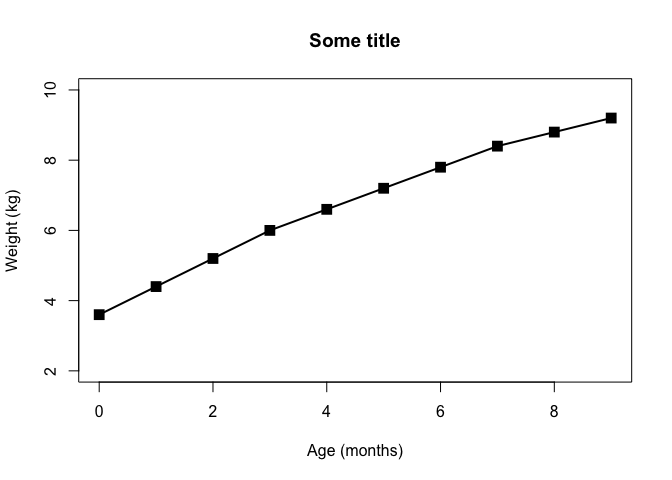
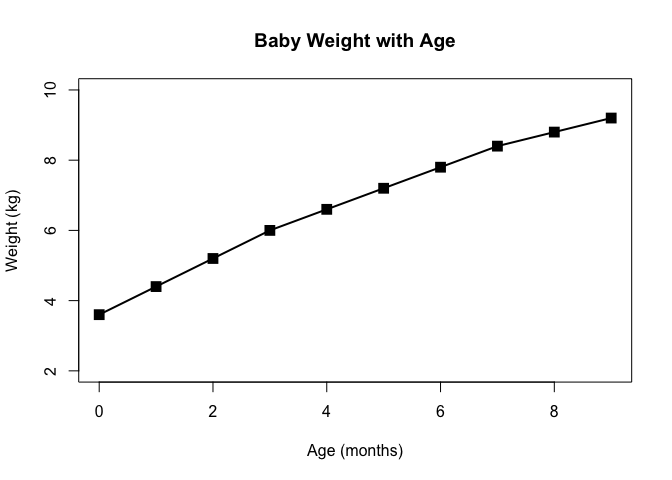
updated class5 R code

Changed region(s): [[0.375, 0.0625, 0.6875, 0.125]]

diff --git a/class05/class05.md b/class05/class05.md
@@ -6,22 +6,22 @@ April 17, 2019
 ``` r
 # Class05 R graphics and plots
 
-# get the data in
+# Get the data in
 weight <- read.table("bimm143_05_rstats 2//weight_chart.txt", 
                      header = TRUE)
 
-# plot a scatterplot of age vs weight
+# Plot a scatterplot of age vs weight
 
 plot(weight$Age, weight$Weight, pch=15, cex=1.5, lwd=2, ylim = c(2,10),
-     xlab= "Age (months)", ylab="Weight (kg)", main = "Some title",
+     xlab= "Age (months)", ylab="Weight (kg)", main = "Baby Weight with Age",
      type = "o")
 ```
 
 ![](class05_files/figure-markdown_github/unnamed-chunk-1-1.png)
 
 ``` r
-# get the feature_counts.txt data in
-# use "\t" to indicate that the data are separated by a tab
+# Get the feature_counts.txt data in
+# Use "\t" to indicate that the data are separated by a tab
 featureCounts <- read.table("bimm143_05_rstats 2//feature_counts.txt",
                             header = TRUE, sep = "\t")
 
@@ -44,54 +44,58 @@ read.delim("bimm143_05_rstats 2//feature_counts.txt")
     ## 12          Ribosomal RNAs   341
 
 ``` r
-barplot(featureCounts$Count, horiz=TRUE, ylab ="a Title", 
-        names.arg = featureCounts$Feature, main = "Some Title", 
-        las = 1)
-
-# my labels are clipped I need to change the margins
-old.par <- par()$mar
-
-# set new parameters of the graph
-par(mar=c(5, 11, 4, 1))
-
-# replot the graph after setting new parameters
-barplot(featureCounts$Count, horiz=TRUE, ylab ="a Title", 
-        names.arg = featureCounts$Feature, main = "Some Title", 
-        las = 1)
+barplot(featureCounts$Count, horiz=TRUE, xlab ="Counts", 
+        names.arg = featureCounts$Feature, main = "Number of Features in GRCm38 Genome", 
+        las = 1, xlim = c(0,80000))
 ```
 
 ![](class05_files/figure-markdown_github/unnamed-chunk-1-2.png)
 
 ``` r
-# reset the parameters back to normal after plotting
-par(mar = old.par)
-plot(1:10, typ="l")
+# My labels are clipped I need to change the margins
+old.par <- par()$mar
+
+# Set new parameters of the graph
+par(mar=c(5, 12, 5, 4))
+
+# Replot the graph after setting new parameters
+barplot(featureCounts$Count, horiz=TRUE, xlab ="Counts", 
+        names.arg = featureCounts$Feature, main = "Number of Features in GRCm38 Genome", 
+        las = 1)
 ```
 
 ![](class05_files/figure-markdown_github/unnamed-chunk-1-3.png)
 
 ``` r
-# bring in third set of data
-maleFemale <- read.delim("bimm143_05_rstats 2/male_female_counts.txt",
-                         header = TRUE, sep = "\t")
-
-# you could alternate the colors with col = (some vector of colors)
-barplot(maleFemale$Count, names.arg=maleFemale$Sample, las = 2,
-        col = c("red", "blue"))
+# Reset the parameters back to normal after plotting
+par(mar = old.par)
+plot(1:10, typ="l")
 ```
 
 ![](class05_files/figure-markdown_github/unnamed-chunk-1-4.png)
 
 ``` r
-# argument for col could be a number
+# Bring in third set of data
+maleFemale <- read.delim("bimm143_05_rstats 2/male_female_counts.txt",
+                         header = TRUE, sep = "\t")
+
+# You could alternate the colors with col = (some vector of colors)
 barplot(maleFemale$Count, names.arg=maleFemale$Sample, las = 2,
-        col = heat.colors(10))
+        col = c("red", "blue"), ylab = "Counts")
 ```
 
 ![](class05_files/figure-markdown_github/unnamed-chunk-1-5.png)
 
 ``` r
-# shows all the number codes for each color
+# Argument for col could be a number
+barplot(maleFemale$Count, names.arg=maleFemale$Sample, las = 2,
+        col = heat.colors(10))
+```
+
+![](class05_files/figure-markdown_github/unnamed-chunk-1-6.png)
+
+``` r
+# Shows all the number codes for each color
 colours()
 ```
 
@@ -323,7 +327,7 @@ rainbow(10)
     ##  [6] "#00FFFFFF" "#0066FFFF" "#3300FFFF" "#CC00FFFF" "#FF0099FF"
 
 ``` r
-# bring in last set of data
+# Bring in last set of data
 genes <- read.delim("bimm143_05_rstats 2/up_down_expression.txt",
                      header = TRUE, sep = "\t")
 
@@ -371,22 +375,79 @@ plot(genes$Condition1, genes$Condition2,
      ylab = "Expression Condition 2")
 ```
 
-![](class05_files/figure-markdown_github/unnamed-chunk-1-6.png)
+![](class05_files/figure-markdown_github/unnamed-chunk-1-7.png)
 
 ``` r
-# Use this to set the palette of the colors that will show up on
-# the plot
+# Use this to set the palette of the colors that will show up on the plot
 old.palette <-palette()
 mynewcols <- palette(c("red", "grey", "blue"))
 plot(genes$Condition1, genes$Condition2, 
      col = genes$State, xlab = "Expression Condition 1",
-     ylab = "Expression Condition 2", main = "Some Title")
+     ylab = "Expression Condition 2", main = "Up/Down Expression Comparison")
 ```
 
-![](class05_files/figure-markdown_github/unnamed-chunk-1-7.png)
+![](class05_files/figure-markdown_github/unnamed-chunk-1-8.png)
 
 ``` r
 levels(genes$State)
 ```
 
     ## [1] "down"       "unchanging" "up"
+
+``` r
+# Meth Expression
+meth <- read.delim("bimm143_05_rstats 2/expression_methylation.txt")
+nrow(meth)
+```
+
+    ## [1] 9241
+
+``` r
+length(meth$X)
+```
+
+    ## [1] 9241
+
+``` r
+plot(meth$gene.meth, meth$expression)
+```
+
+![](class05_files/figure-markdown_github/unnamed-chunk-1-9.png)
+
+``` r
+# This is a busy plot with lots of data points in top of one another.
+# Let improve it a little by coloring by point density.
+dcols <- densCols(meth$gene.meth, meth$expression)
+plot(meth$gene.meth, meth$expression, col = dcols, pch = 20)
+```
+
+![](class05_files/figure-markdown_github/unnamed-chunk-1-10.png)
+
+``` r
+# It looks like most of the data is clustered near the origin.
+# Lets restrict ourselves to the genes that have more than zero "expression" values
+inds <- meth$expression > 0
+plot(meth$gene.meth[inds], meth$expression[inds])
+```
+
+![](class05_files/figure-markdown_github/unnamed-chunk-1-11.png)
+
+``` r
+dcols <- densCols(meth$gene.meth[inds], meth$expression[inds])
+plot(meth$gene.meth[inds], meth$expression[inds], col = dcols, pch = 20)
+```
+
+![](class05_files/figure-markdown_github/unnamed-chunk-1-12.png)
+
+``` r
+dcols.custom <- densCols(meth$gene.meth[inds], meth$expression[inds],
+                         colramp = colorRampPalette(c("blue2",
+                                                      "green2",
+                                                      "red2",
+                                                      "yellow")) )
+
+plot(meth$gene.meth[inds], meth$expression[inds], 
+     col = dcols.custom, pch = 20)
+```
+
+![](class05_files/figure-markdown_github/unnamed-chunk-1-13.png)
